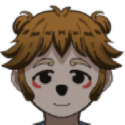
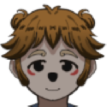
キラキラエフェクト黒光り修正、開錠アクションSE調整、UI位置調整、ゲームオーバーロゴちょっと修正

diff --git a/AppFrame/source/Resources.h b/AppFrame/source/Resources.h
@@ -151,6 +151,7 @@ namespace mv1
   inline constexpr const char* Goal = "res/Goal/Goal.mv1";
   inline constexpr const char* makimono_01 = "res/Makimono/makimono_01.mv1";
   inline constexpr const char* SM_Stage1V2 = "res/map/SM_Stage1V2.mv1";
+  inline constexpr const char* SM_Stage3_0323 = "res/map/SM_Stage3_0323.mv1";
   inline constexpr const char* SM_stage1_0301 = "res/map/SM_stage1_0301.mv1";
   inline constexpr const char* SM_stage20303 = "res/map/SM_stage20303.mv1";
   inline constexpr const char* SM_stage3 = "res/map/SM_stage3.mv1";

diff --git a/Game/Game/source/henshinui.h b/Game/Game/source/henshinui.h
@@ -5,10 +5,10 @@ namespace henshin
 {
 	static constexpr auto HENSHIN_X = 1400; //1400
 	static constexpr auto HENSHIN_Y = 800; //800
-	static constexpr auto TANUBITO_X = 1565;
-	static constexpr auto TANUBITO_Y = 806;
-	static constexpr auto TANUMONO_X = 1435;
-	static constexpr auto TANUMONO_Y = 894;
+	static constexpr auto TANUBITO_X = 1557;
+	static constexpr auto TANUBITO_Y = 799;
+	static constexpr auto TANUMONO_X = 1425;
+	static constexpr auto TANUMONO_Y = 890;
 }
 
 class HenshinUi : public UiBase
